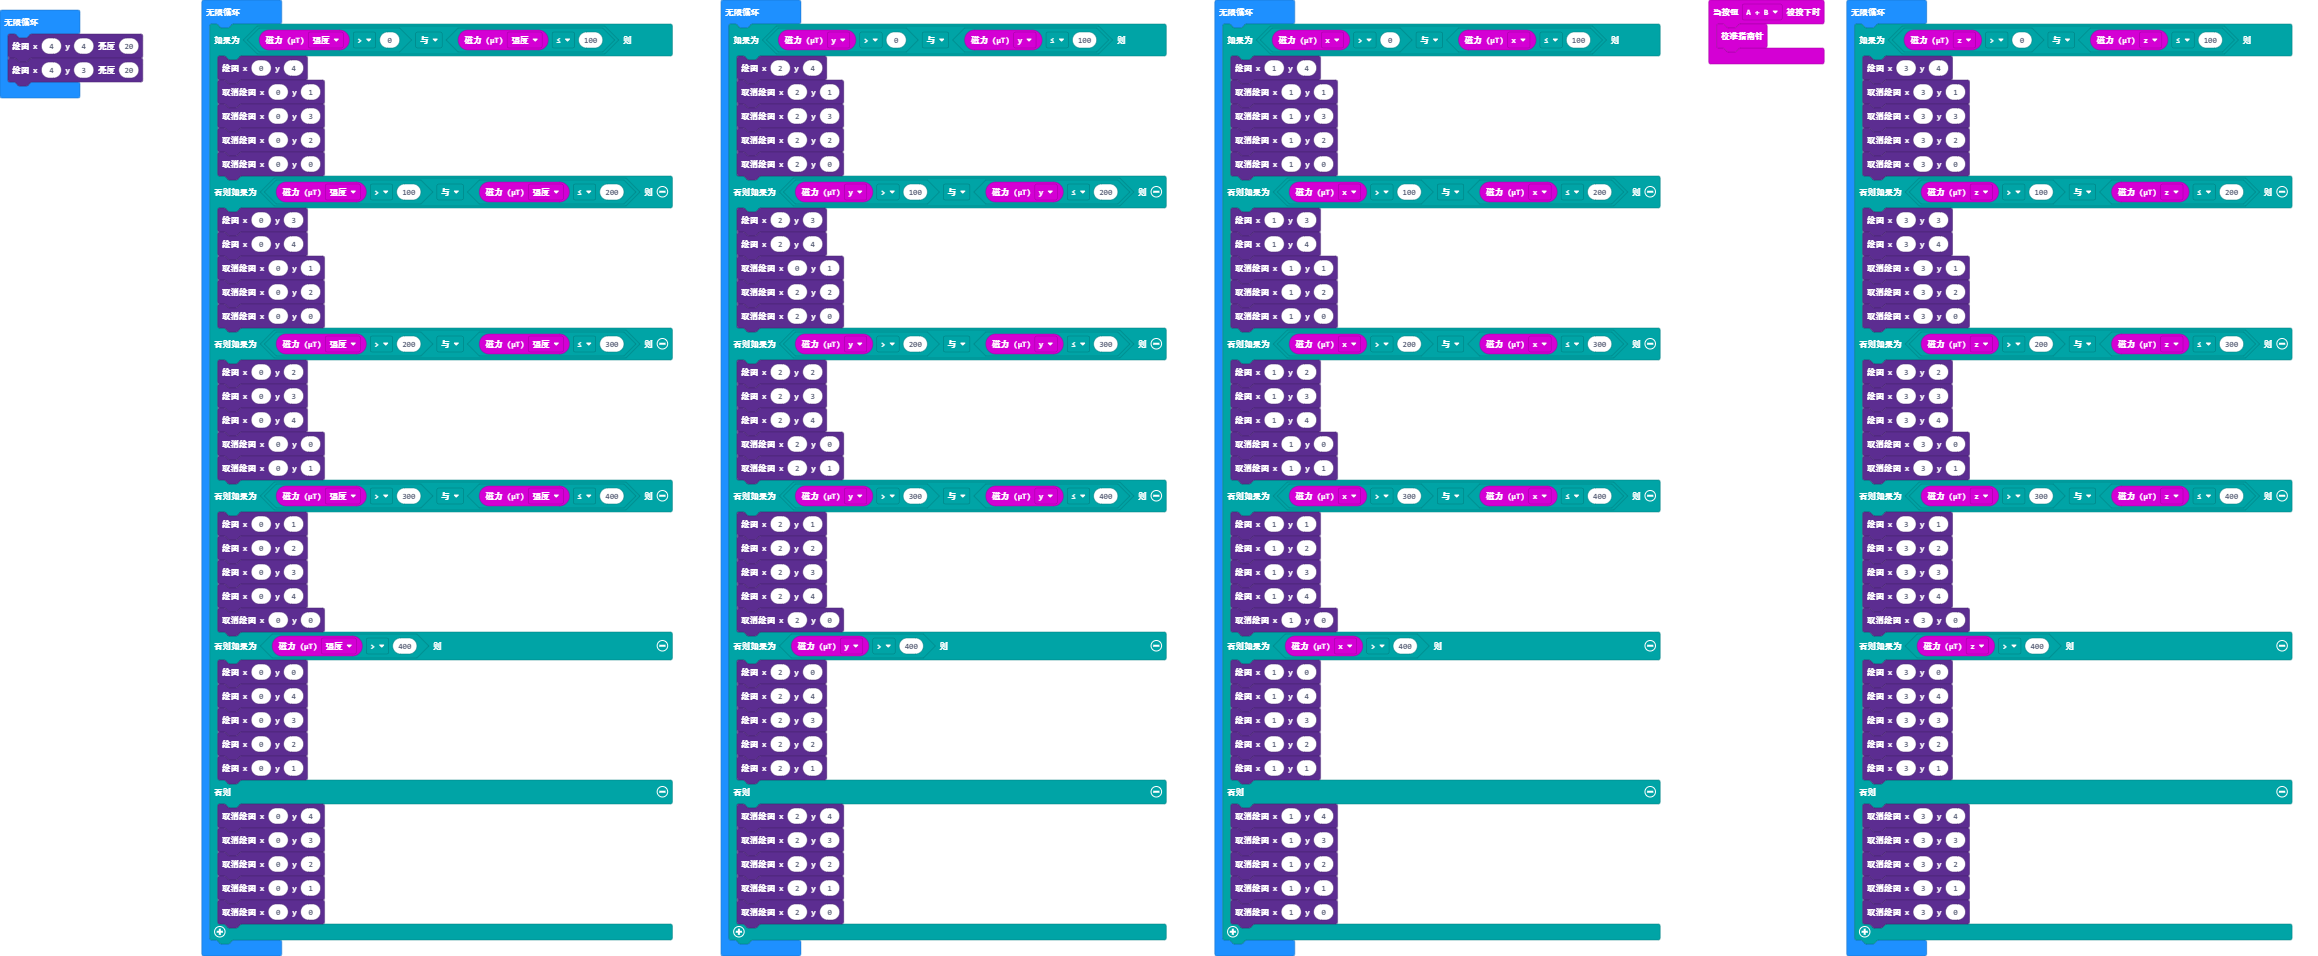
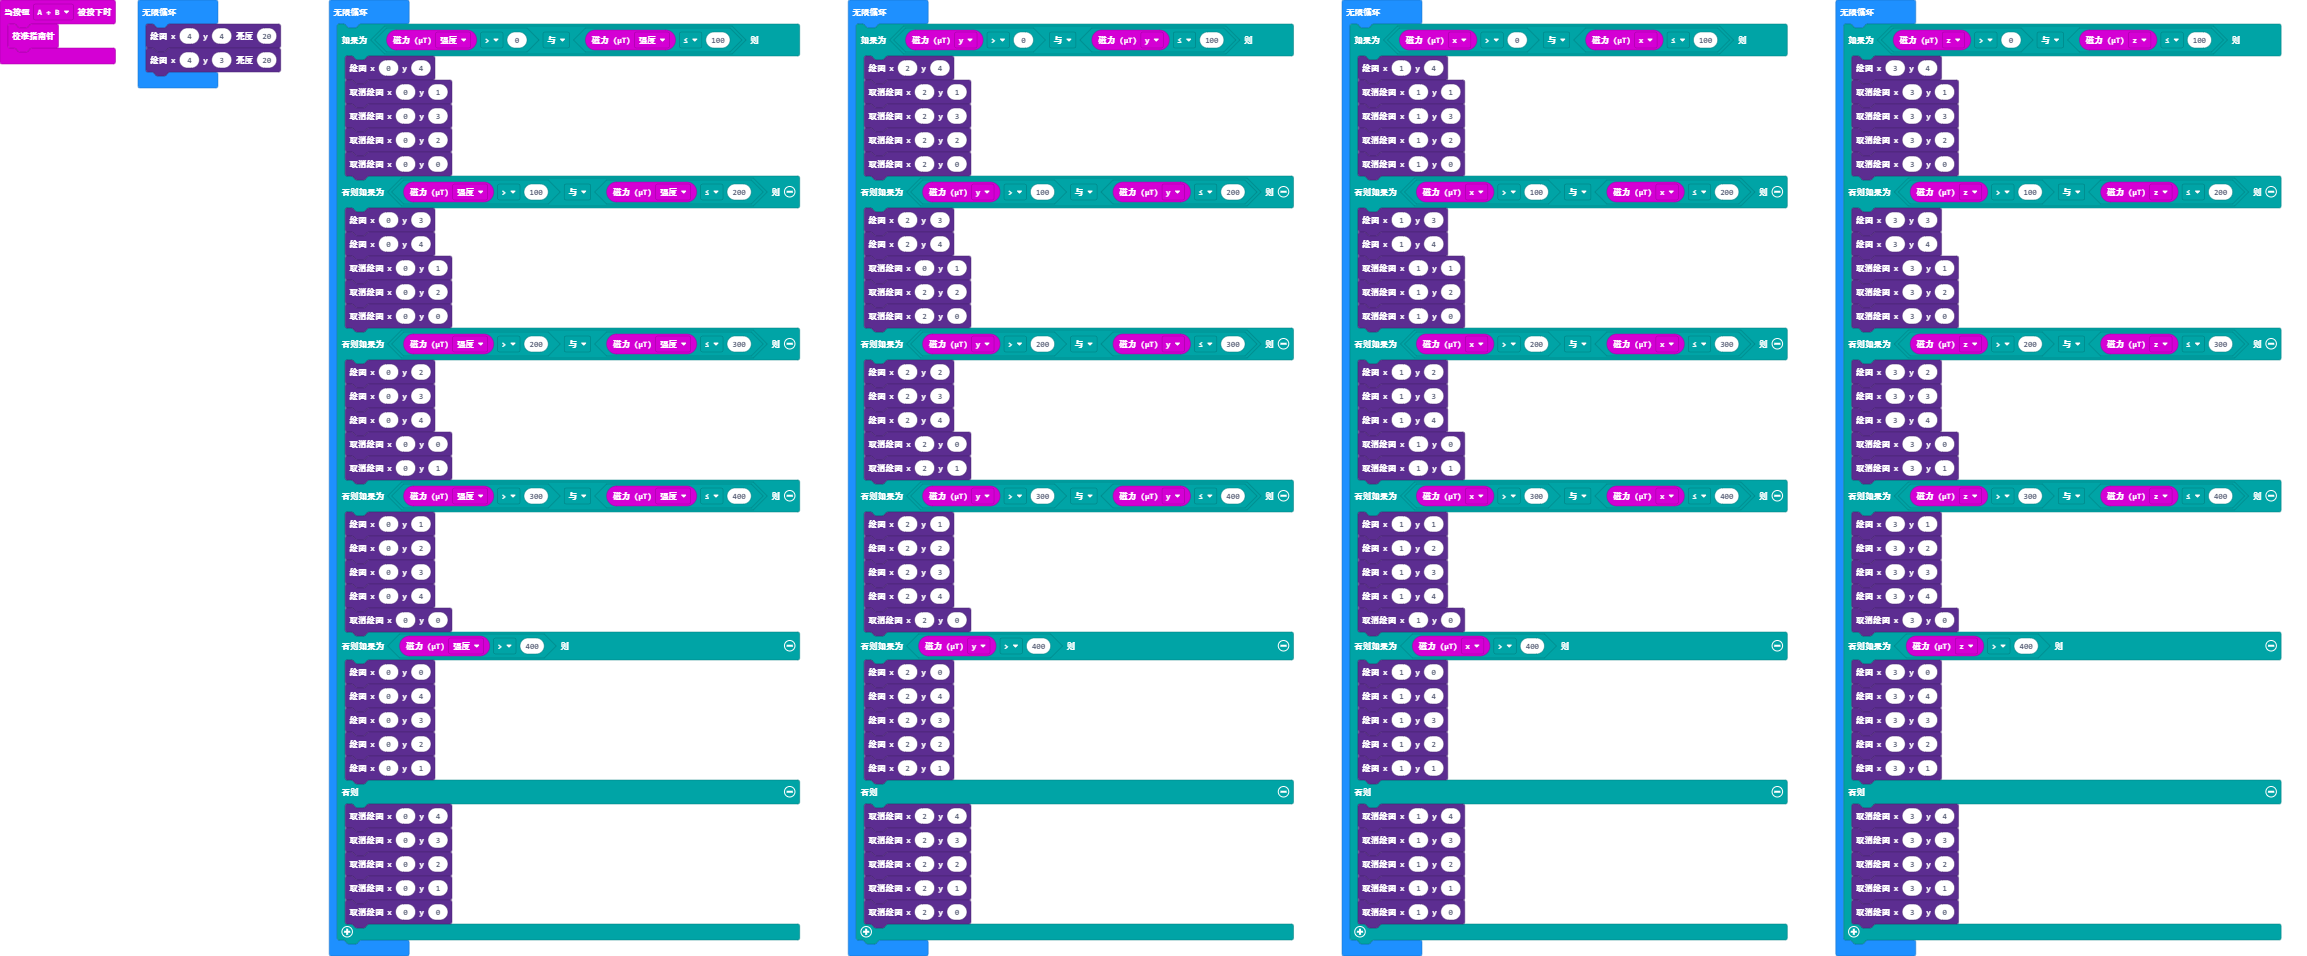
更新 main.blocks, main.py, test.ts

diff --git a/test.ts b/test.ts
@@ -1,1 +1,163 @@
-// 在此处测试；当此软件包作为插件使用时，将不会编译此软件包。
+input.onButtonPressed(Button.AB, function () {
+    input.calibrateCompass()
+})
+basic.forever(function () {
+    led.plotBrightness(4, 4, 20)
+    led.plotBrightness(4, 3, 20)
+})
+basic.forever(function () {
+    if (input.magneticForce(Dimension.Strength) > 0 && input.magneticForce(Dimension.Strength) <= 100) {
+        led.plot(0, 4)
+        led.unplot(0, 1)
+        led.unplot(0, 3)
+        led.unplot(0, 2)
+        led.unplot(0, 0)
+    } else if (input.magneticForce(Dimension.Strength) > 100 && input.magneticForce(Dimension.Strength) <= 200) {
+        led.plot(0, 3)
+        led.plot(0, 4)
+        led.unplot(0, 1)
+        led.unplot(0, 2)
+        led.unplot(0, 0)
+    } else if (input.magneticForce(Dimension.Strength) > 200 && input.magneticForce(Dimension.Strength) <= 300) {
+        led.plot(0, 2)
+        led.plot(0, 3)
+        led.plot(0, 4)
+        led.unplot(0, 0)
+        led.unplot(0, 1)
+    } else if (input.magneticForce(Dimension.Strength) > 300 && input.magneticForce(Dimension.Strength) <= 400) {
+        led.plot(0, 1)
+        led.plot(0, 2)
+        led.plot(0, 3)
+        led.plot(0, 4)
+        led.unplot(0, 0)
+    } else if (input.magneticForce(Dimension.Strength) > 400) {
+        led.plot(0, 0)
+        led.plot(0, 4)
+        led.plot(0, 3)
+        led.plot(0, 2)
+        led.plot(0, 1)
+    } else {
+        led.unplot(0, 4)
+        led.unplot(0, 3)
+        led.unplot(0, 2)
+        led.unplot(0, 1)
+        led.unplot(0, 0)
+    }
+})
+basic.forever(function () {
+    if (input.magneticForce(Dimension.Y) > 0 && input.magneticForce(Dimension.Y) <= 100) {
+        led.plot(2, 4)
+        led.unplot(2, 1)
+        led.unplot(2, 3)
+        led.unplot(2, 2)
+        led.unplot(2, 0)
+    } else if (input.magneticForce(Dimension.Y) > 100 && input.magneticForce(Dimension.Y) <= 200) {
+        led.plot(2, 3)
+        led.plot(2, 4)
+        led.unplot(0, 1)
+        led.unplot(2, 2)
+        led.unplot(2, 0)
+    } else if (input.magneticForce(Dimension.Y) > 200 && input.magneticForce(Dimension.Y) <= 300) {
+        led.plot(2, 2)
+        led.plot(2, 3)
+        led.plot(2, 4)
+        led.unplot(2, 0)
+        led.unplot(2, 1)
+    } else if (input.magneticForce(Dimension.Y) > 300 && input.magneticForce(Dimension.Y) <= 400) {
+        led.plot(2, 1)
+        led.plot(2, 2)
+        led.plot(2, 3)
+        led.plot(2, 4)
+        led.unplot(2, 0)
+    } else if (input.magneticForce(Dimension.Y) > 400) {
+        led.plot(2, 0)
+        led.plot(2, 4)
+        led.plot(2, 3)
+        led.plot(2, 2)
+        led.plot(2, 1)
+    } else {
+        led.unplot(2, 4)
+        led.unplot(2, 3)
+        led.unplot(2, 2)
+        led.unplot(2, 1)
+        led.unplot(2, 0)
+    }
+})
+basic.forever(function () {
+    if (input.magneticForce(Dimension.X) > 0 && input.magneticForce(Dimension.X) <= 100) {
+        led.plot(1, 4)
+        led.unplot(1, 1)
+        led.unplot(1, 3)
+        led.unplot(1, 2)
+        led.unplot(1, 0)
+    } else if (input.magneticForce(Dimension.X) > 100 && input.magneticForce(Dimension.X) <= 200) {
+        led.plot(1, 3)
+        led.plot(1, 4)
+        led.unplot(1, 1)
+        led.unplot(1, 2)
+        led.unplot(1, 0)
+    } else if (input.magneticForce(Dimension.X) > 200 && input.magneticForce(Dimension.X) <= 300) {
+        led.plot(1, 2)
+        led.plot(1, 3)
+        led.plot(1, 4)
+        led.unplot(1, 0)
+        led.unplot(1, 1)
+    } else if (input.magneticForce(Dimension.X) > 300 && input.magneticForce(Dimension.X) <= 400) {
+        led.plot(1, 1)
+        led.plot(1, 2)
+        led.plot(1, 3)
+        led.plot(1, 4)
+        led.unplot(1, 0)
+    } else if (input.magneticForce(Dimension.X) > 400) {
+        led.plot(1, 0)
+        led.plot(1, 4)
+        led.plot(1, 3)
+        led.plot(1, 2)
+        led.plot(1, 1)
+    } else {
+        led.unplot(1, 4)
+        led.unplot(1, 3)
+        led.unplot(1, 2)
+        led.unplot(1, 1)
+        led.unplot(1, 0)
+    }
+})
+basic.forever(function () {
+    if (input.magneticForce(Dimension.Z) > 0 && input.magneticForce(Dimension.Z) <= 100) {
+        led.plot(3, 4)
+        led.unplot(3, 1)
+        led.unplot(3, 3)
+        led.unplot(3, 2)
+        led.unplot(3, 0)
+    } else if (input.magneticForce(Dimension.Z) > 100 && input.magneticForce(Dimension.Z) <= 200) {
+        led.plot(3, 3)
+        led.plot(3, 4)
+        led.unplot(3, 1)
+        led.unplot(3, 2)
+        led.unplot(3, 0)
+    } else if (input.magneticForce(Dimension.Z) > 200 && input.magneticForce(Dimension.Z) <= 300) {
+        led.plot(3, 2)
+        led.plot(3, 3)
+        led.plot(3, 4)
+        led.unplot(3, 0)
+        led.unplot(3, 1)
+    } else if (input.magneticForce(Dimension.Z) > 300 && input.magneticForce(Dimension.Z) <= 400) {
+        led.plot(3, 1)
+        led.plot(3, 2)
+        led.plot(3, 3)
+        led.plot(3, 4)
+        led.unplot(3, 0)
+    } else if (input.magneticForce(Dimension.Z) > 400) {
+        led.plot(3, 0)
+        led.plot(3, 4)
+        led.plot(3, 3)
+        led.plot(3, 2)
+        led.plot(3, 1)
+    } else {
+        led.unplot(3, 4)
+        led.unplot(3, 3)
+        led.unplot(3, 2)
+        led.unplot(3, 1)
+        led.unplot(3, 0)
+    }
+})

diff --git a/main.py b/main.py
@@ -1,18 +1,164 @@
-led.plot_brightness(4, 4, 20)
+def on_button_pressed_ab():
+    input.calibrate_compass()
+input.on_button_pressed(Button.AB, on_button_pressed_ab)
 
 def on_forever():
-    if True:
-        pass
-    elif False:
-        pass
-    elif False:
-        pass
-    elif False:
-        pass
+    led.plot_brightness(4, 4, 20)
+    led.plot_brightness(4, 3, 20)
+basic.forever(on_forever)
+
+def on_forever2():
+    if input.magnetic_force(Dimension.STRENGTH) > 0 and input.magnetic_force(Dimension.STRENGTH) <= 100:
+        led.plot(0, 4)
+        led.unplot(0, 1)
+        led.unplot(0, 3)
+        led.unplot(0, 2)
+        led.unplot(0, 0)
+    elif input.magnetic_force(Dimension.STRENGTH) > 100 and input.magnetic_force(Dimension.STRENGTH) <= 200:
+        led.plot(0, 3)
+        led.plot(0, 4)
+        led.unplot(0, 1)
+        led.unplot(0, 2)
+        led.unplot(0, 0)
+    elif input.magnetic_force(Dimension.STRENGTH) > 200 and input.magnetic_force(Dimension.STRENGTH) <= 300:
+        led.plot(0, 2)
+        led.plot(0, 3)
+        led.plot(0, 4)
+        led.unplot(0, 0)
+        led.unplot(0, 1)
+    elif input.magnetic_force(Dimension.STRENGTH) > 300 and input.magnetic_force(Dimension.STRENGTH) <= 400:
+        led.plot(0, 1)
+        led.plot(0, 2)
+        led.plot(0, 3)
+        led.plot(0, 4)
+        led.unplot(0, 0)
+    elif input.magnetic_force(Dimension.STRENGTH) > 400:
+        led.plot(0, 0)
+        led.plot(0, 4)
+        led.plot(0, 3)
+        led.plot(0, 2)
+        led.plot(0, 1)
     else:
         led.unplot(0, 4)
         led.unplot(0, 3)
         led.unplot(0, 2)
         led.unplot(0, 1)
         led.unplot(0, 0)
-basic.forever(on_forever)
+basic.forever(on_forever2)
+
+def on_forever3():
+    if input.magnetic_force(Dimension.Y) > 0 and input.magnetic_force(Dimension.Y) <= 100:
+        led.plot(2, 4)
+        led.unplot(2, 1)
+        led.unplot(2, 3)
+        led.unplot(2, 2)
+        led.unplot(2, 0)
+    elif input.magnetic_force(Dimension.Y) > 100 and input.magnetic_force(Dimension.Y) <= 200:
+        led.plot(2, 3)
+        led.plot(2, 4)
+        led.unplot(0, 1)
+        led.unplot(2, 2)
+        led.unplot(2, 0)
+    elif input.magnetic_force(Dimension.Y) > 200 and input.magnetic_force(Dimension.Y) <= 300:
+        led.plot(2, 2)
+        led.plot(2, 3)
+        led.plot(2, 4)
+        led.unplot(2, 0)
+        led.unplot(2, 1)
+    elif input.magnetic_force(Dimension.Y) > 300 and input.magnetic_force(Dimension.Y) <= 400:
+        led.plot(2, 1)
+        led.plot(2, 2)
+        led.plot(2, 3)
+        led.plot(2, 4)
+        led.unplot(2, 0)
+    elif input.magnetic_force(Dimension.Y) > 400:
+        led.plot(2, 0)
+        led.plot(2, 4)
+        led.plot(2, 3)
+        led.plot(2, 2)
+        led.plot(2, 1)
+    else:
+        led.unplot(2, 4)
+        led.unplot(2, 3)
+        led.unplot(2, 2)
+        led.unplot(2, 1)
+        led.unplot(2, 0)
+basic.forever(on_forever3)
+
+def on_forever4():
+    if input.magnetic_force(Dimension.X) > 0 and input.magnetic_force(Dimension.X) <= 100:
+        led.plot(1, 4)
+        led.unplot(1, 1)
+        led.unplot(1, 3)
+        led.unplot(1, 2)
+        led.unplot(1, 0)
+    elif input.magnetic_force(Dimension.X) > 100 and input.magnetic_force(Dimension.X) <= 200:
+        led.plot(1, 3)
+        led.plot(1, 4)
+        led.unplot(1, 1)
+        led.unplot(1, 2)
+        led.unplot(1, 0)
+    elif input.magnetic_force(Dimension.X) > 200 and input.magnetic_force(Dimension.X) <= 300:
+        led.plot(1, 2)
+        led.plot(1, 3)
+        led.plot(1, 4)
+        led.unplot(1, 0)
+        led.unplot(1, 1)
+    elif input.magnetic_force(Dimension.X) > 300 and input.magnetic_force(Dimension.X) <= 400:
+        led.plot(1, 1)
+        led.plot(1, 2)
+        led.plot(1, 3)
+        led.plot(1, 4)
+        led.unplot(1, 0)
+    elif input.magnetic_force(Dimension.X) > 400:
+        led.plot(1, 0)
+        led.plot(1, 4)
+        led.plot(1, 3)
+        led.plot(1, 2)
+        led.plot(1, 1)
+    else:
+        led.unplot(1, 4)
+        led.unplot(1, 3)
+        led.unplot(1, 2)
+        led.unplot(1, 1)
+        led.unplot(1, 0)
+basic.forever(on_forever4)
+
+def on_forever5():
+    if input.magnetic_force(Dimension.Z) > 0 and input.magnetic_force(Dimension.Z) <= 100:
+        led.plot(3, 4)
+        led.unplot(3, 1)
+        led.unplot(3, 3)
+        led.unplot(3, 2)
+        led.unplot(3, 0)
+    elif input.magnetic_force(Dimension.Z) > 100 and input.magnetic_force(Dimension.Z) <= 200:
+        led.plot(3, 3)
+        led.plot(3, 4)
+        led.unplot(3, 1)
+        led.unplot(3, 2)
+        led.unplot(3, 0)
+    elif input.magnetic_force(Dimension.Z) > 200 and input.magnetic_force(Dimension.Z) <= 300:
+        led.plot(3, 2)
+        led.plot(3, 3)
+        led.plot(3, 4)
+        led.unplot(3, 0)
+        led.unplot(3, 1)
+    elif input.magnetic_force(Dimension.Z) > 300 and input.magnetic_force(Dimension.Z) <= 400:
+        led.plot(3, 1)
+        led.plot(3, 2)
+        led.plot(3, 3)
+        led.plot(3, 4)
+        led.unplot(3, 0)
+    elif input.magnetic_force(Dimension.Z) > 400:
+        led.plot(3, 0)
+        led.plot(3, 4)
+        led.plot(3, 3)
+        led.plot(3, 2)
+        led.plot(3, 1)
+    else:
+        led.unplot(3, 4)
+        led.unplot(3, 3)
+        led.unplot(3, 2)
+        led.unplot(3, 1)
+        led.unplot(3, 0)
+basic.forever(on_forever5)
